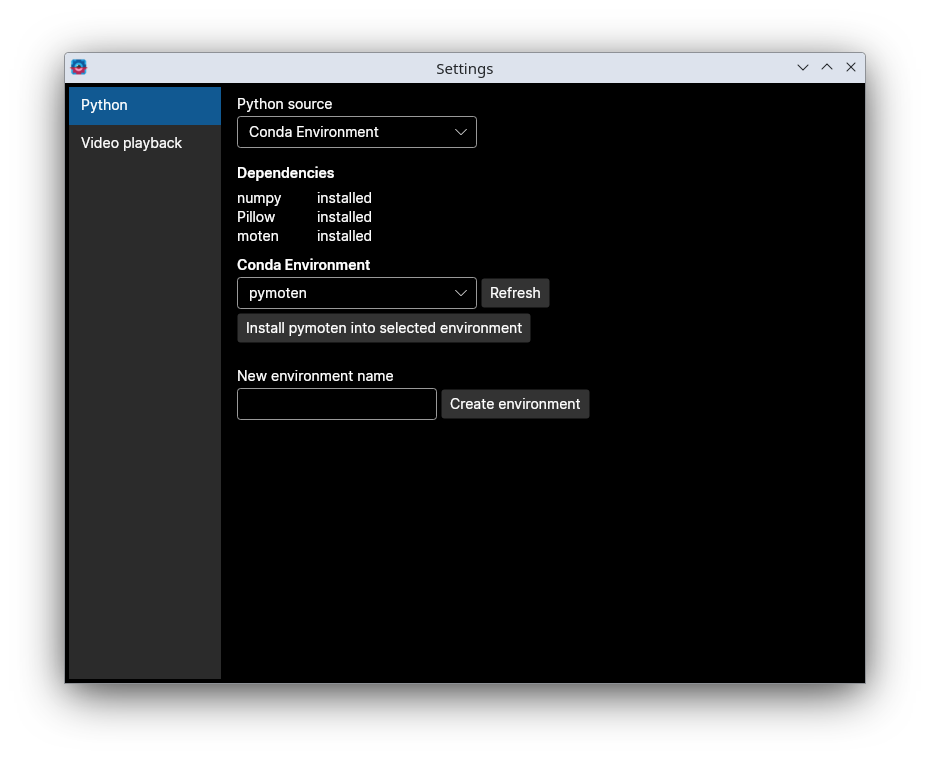
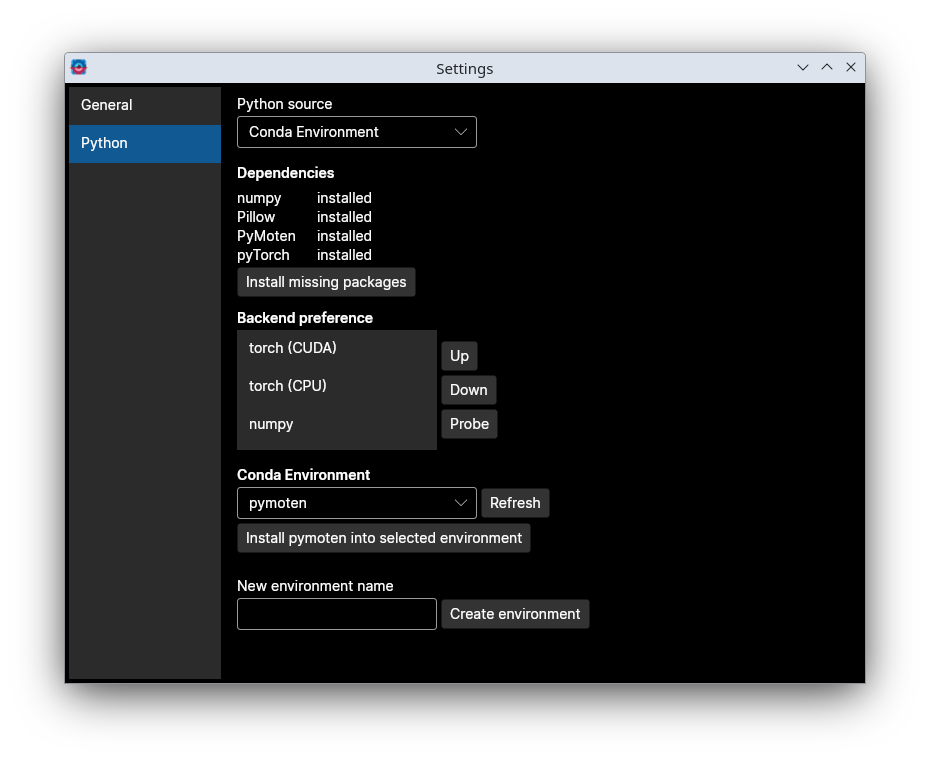
docs updates

diff --git a/docs/workflow/motion energy.md b/docs/workflow/motion energy.md
@@ -32,9 +32,22 @@ These control the filter bank that PyMoten uses to decompose the video into moti
 
 Click **Compute pyramid** to compute and display the pyramid for the current frame. Click **Restore defaults** to reset the pyramid parameters to their defaults.
 
+## Compute backend
+
+The **Backend** dropdown selects which compute backend PyMoten uses for the current run. The available options depend on what is installed in your Python environment:
+
+| Backend | Description |
+|---|---|
+| numpy | CPU-based computation using NumPy. Always available. |
+| torch (CPU) | PyTorch running on CPU. |
+| torch (CUDA) | PyTorch using an NVIDIA GPU via CUDA. Shown only if a compatible GPU is detected. |
+| torch (MPS) | PyTorch using Apple Silicon GPU via MPS. Shown only on macOS with MPS support. |
+
+The preferred backend order is configured in Python Settings. After a compute run completes, any GPU memory used by the CUDA backend is released automatically.
+
 ## Compute features
 
-Once the frame parameters and pyramid are configured, click **Compute features** to run the full feature extraction over the video. Set **Start frame** to begin extraction from a specific frame rather than the beginning. While computing, the button changes to **Cancel** to interrupt the run.
+Once the frame parameters, pyramid, and backend are configured, click **Compute features** to run the full feature extraction over the video. Set **Start frame** to begin extraction from a specific frame rather than the beginning. While computing, the button changes to **Cancel** to interrupt the run.
 
 After extraction completes, a save dialog prompts for the output path. Three files are saved, all sharing the same base name:
 

diff --git a/docs/faq.md b/docs/faq.md
@@ -22,7 +22,7 @@ The [Stimulus & Gaze](workflow/stimulus%20and%20gaze.md) tab can load gaze posit
 
 **There's no option to read .edf files from Eyelink**
 
-You need to provide your own copy of the edfapi.dll/so library from the SR Research Eyelink SDK. Putting that in your path or next to the SharpEyes executable should enable EDF reading. There is no EDF support for macOS
+You need to provide your own copy of the edfapi.dll/so library from the SR Research Eyelink SDK. SharpEyes will find it automatically if it is on your system path, or you can specify its location explicitly in General Settings. There is no EDF support for macOS.
 
 **What do I need to build SharpEyes from source?**
 
@@ -30,7 +30,7 @@ SharpEyes was built with Visual Studio and JetBrains Rider.
 
 **What about GPU support?**
 
-Everything runs on CPU. The code uses multithreading where possible, but the bottleneck is generally the human reviewing the output, so GPU support is not a priority.
+Motion-energy feature extraction can run on an NVIDIA GPU via CUDA or on Apple Silicon via MPS, if PyTorch is installed and the hardware is available. The available backends are listed in Python Settings, where you can also set your preferred order. All other processing runs on CPU.
 
 **There's a bug. What do I do?**
 

diff --git a/docs/workflow/stimulus and gaze.md b/docs/workflow/stimulus and gaze.md
@@ -8,7 +8,7 @@ Sharpeyes can read the following file formats for the gaze locations:
 
 - numpy arrays with at least two columns, where column 0 is X and column 2 is Y. Additional columns will be ignored but kept.
 - CSV files following the same format.
-- Eyelink EDF files, if you have the Eyelink SDK in your system path (this functionality depends on the EDFAPI shared library they provide. This will not be an option if the library is not found)
+- Eyelink EDF files, if the Eyelink EDFAPI shared library is available. SharpEyes will look for it in your system path by default, or you can specify its location in General Settings. This will not be an option if the library is not found.
 - Converted Eyelink files - the text file outputs from converted EDFs, either with a `.txt` or `.asc` extension.
 
 Note: if you read a numpy or CSV file, you'll need to manually set the Eyetracking FPS. The FPS will be set automatically if you read an Eyelink data file.

diff --git a/docs/getting started.md b/docs/getting started.md
@@ -40,4 +40,8 @@ SharpEyes will manage a self-contained Python environment with no additional set
 
 <img src="assets/python%20settings%20standalone.png" width="600" />
 
+You can change the Python environment at any time while the program is running. If Python was already initialized during the session, a warning strip will appear indicating that a restart is required for the change to take effect.
+
+The Python Settings page also shows the available PyMoten compute backends (numpy, torch CPU, CUDA, MPS) detected in your environment and lets you set their preference order. The preferred order is used by the Motion-Energy tab when selecting a backend.
+
 Once Python is configured, head to the [Workflow](workflow/index.md) section to get started processing data.
